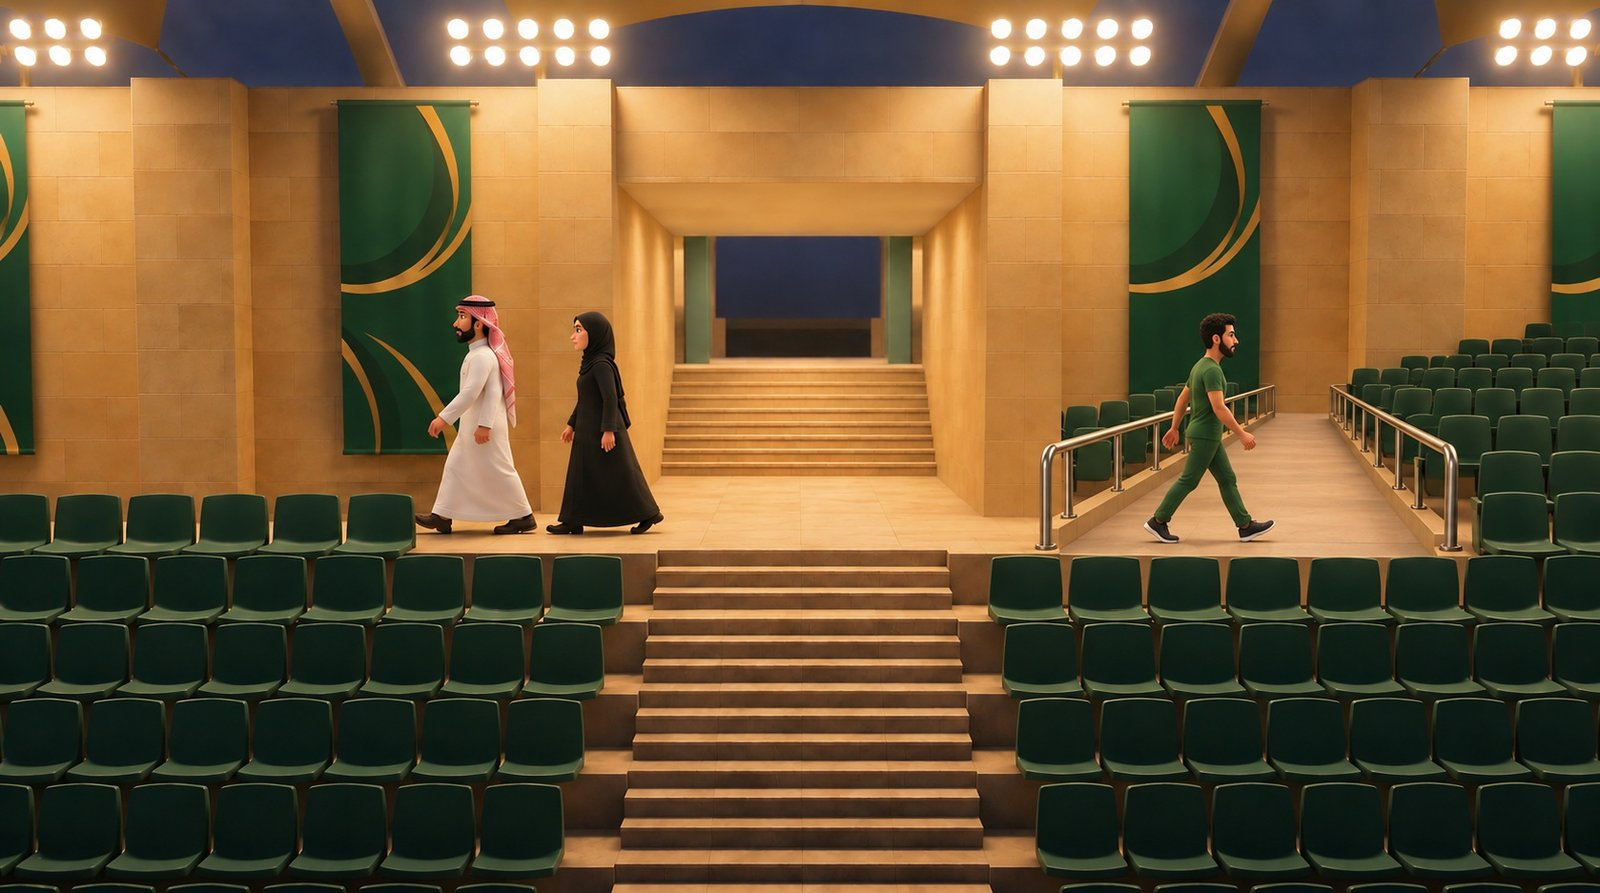
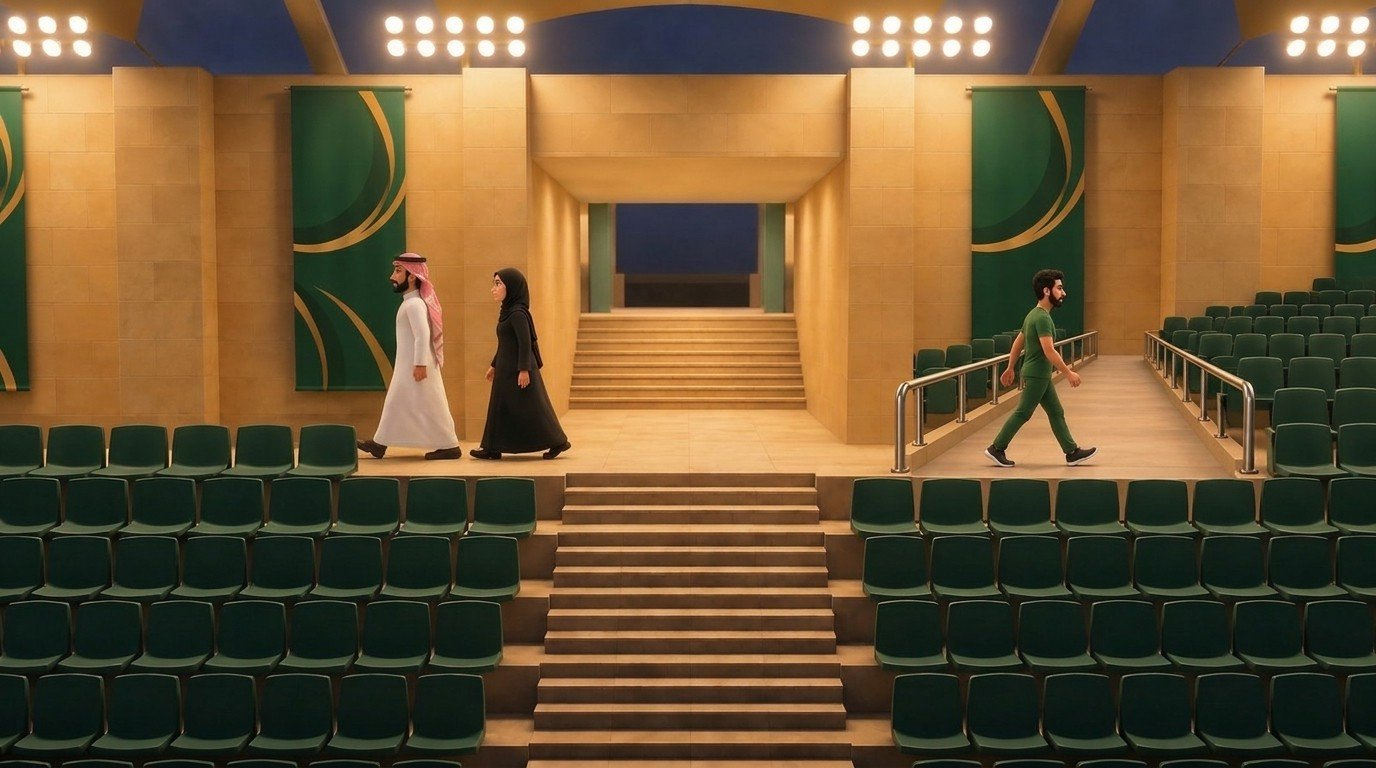
SMP 10.3 preview: 6.16 picture (12 Nov 2026)

diff --git a/index.html b/index.html
@@ -1757,10 +1757,10 @@ body{background:var(--surface-2)}
 /* ===================== course features kept in the bar: menu · XP · progress · job aids · timer ===================== */
 .cl-end{display:flex;align-items:center;gap:10px}
 .cl-menu,.cl-icon{display:inline-flex;align-items:center;gap:6px;font:inherit;font-weight:700;font-size:13px;min-height:38px;min-width:38px;justify-content:center;
-  padding:0 8px;border:2px solid #fff;border-radius:4px;background:transparent;color:#fff;cursor:pointer}
-.cl-burger{display:inline-grid;gap:3px}.cl-burger i{display:block;width:16px;height:2px;background:#fff}
+  padding:0 8px;border:2px solid var(--bar-fg,#fff);border-radius:4px;background:transparent;color:var(--bar-fg,#fff);cursor:pointer}
+.cl-burger{display:inline-grid;gap:3px}.cl-burger i{display:block;width:16px;height:2px;background:var(--bar-fg,#fff)}
 .cl-menu:focus-visible,.cl-icon:focus-visible{outline:3px solid var(--sky);outline-offset:2px}
-.cl-xp{background:#fff!important;color:var(--navy)!important;font-weight:800;font-size:12.5px;padding:4px 8px;border-radius:2px!important;white-space:nowrap}
+.cl-xp{background:var(--lang-on-bg,#fff)!important;color:var(--lang-on-fg,var(--navy))!important;font-weight:800;font-size:12.5px;padding:4px 8px;border-radius:2px!important;white-space:nowrap}
 .bar.cl-bar-top .cl-sub{margin:10px calc(var(--pad)*-1) -10px;padding:8px var(--pad) 10px;background:var(--surface);border-bottom:1px solid var(--line)}
 .bar.cl-bar-top.cl-onpage .cl-sub{display:none}
 .cl-sub .barmeta{display:flex;align-items:center;justify-content:space-between;gap:10px}
